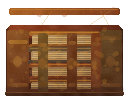
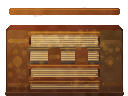
N7A1 · Die letzte Fassung der Lesebank — und die md5-Gegenprobe, die sie gefunden hat
Codex hat das Bank-Blatt 90 Sekunden NACH meiner Montage noch einmal ersetzt. Die
montierte Kopie war damit die ältere: Lieferung `f7f956c1…` gegen Montage `a0780126…`.
Gefunden hat es nicht ein Tor, sondern die Gewohnheit, Lieferung und Ablage vor jedem
Abschluss per md5 zu vergleichen — beide Blätter sind 128×96, beide bestehen das
Aufstands-Tor, und kein Maß hätte den Unterschied gezeigt.

Die neuere Fassung ist die bessere und ist jetzt montiert: gleiche Deckung (77,2 %
bei Spielgröße), gleiches `deck` (8/96), aber **Wert-SD 20,4 statt 17,0** — also mehr
Innenkontrast bei genau der Größe, um die es in Runde 3 ging. Die Zahl 17,0 in der
vorigen Commit-Nachricht beschreibt die verworfene Fassung.

Die Selbstauskunft der Möbel-Welle kommt mit; ihre sechs md5 stimmen mit den
gelieferten Blättern überein (selbst nachgerechnet).

diff --git a/docs/n6-auftrag/lieferung/SELBSTAUSKUNFT_N7_MOEBEL.md b/docs/n6-auftrag/lieferung/SELBSTAUSKUNFT_N7_MOEBEL.md
@@ -2,36 +2,37 @@ Stand: 2026-09-02 - N7A1 - Moebel - Runde 1
 
 # CODEX DRAFT — NOT CANON
 
-Status: DOCUMENT (`docs/n6-auftrag/lieferung/`). Runde 2: sechs vollständige Neuwürfe mit Malerei-Nachbesserung. Die Stand-Zeile bleibt absichtlich die der Order.
+Status: DOCUMENT (`docs/n6-auftrag/lieferung/`). Runde 3: zwei vollständige Neuwürfe; vier angenommene Blätter wurden nicht angefasst. Die Stand-Zeile bleibt absichtlich die der Order.
 
 ## Prüfumfang
 
-- Alle sechs Blattmaße wurden auf die neuen Vorgaben geändert; die Breiten bleiben 64 px je Zelle.
-- Alle sechs PNGs sind 8-Bit-RGBA-Dateien mit Alpha-Silhouette.
+- Die beiden Zielblätter wurden als geschlossene, gefüllte Buchmassen neu geworfen; die vier angenommenen PNGs blieben unverändert.
+- Die beiden Zielblätter bleiben 8-Bit-RGBA-Dateien mit Alpha-Silhouette und den bestehenden Blattbreiten.
 - Die drei abgenommenen p2-Möbel wurden erneut als Machart-Referenz geöffnet.
 - Normalgröße und verkleinerte Gesamtansicht wurden visuell geprüft.
-- Die neuen Bilder enthalten modellierte Wertverläufe, farbige Materialkörnung, Seitenlagen, Bänder/Falze und farbige Kontaktschatten; es wurden keine schwarzen Umrisslinien gezeichnet.
+- Die beiden neuen Bilder enthalten modellierte Wertverläufe, farbige Materialkörnung, Seitenlagen, Bänder/Falze und farbige Kontaktschatten; es wurden keine schwarzen Umrisslinien gezeichnet.
 - `check-ground-plane --selftest` war grün: ein sauberes Blatt und drei absichtlich veränderte Fehlerfälle wurden korrekt erkannt.
-- Der Einzelblatt-Check meldet für alle sechs neuen Lieferbilder: Reichweite 100 %, Kippung 0,0°.
+- Der Einzelblatt-Check meldet für beide neuen Lieferbilder: Reichweite 100 %, Kippung 0,0°.
+- Spielgrößen-Simulation: Der Bench wurde auf 32 × 24 px, das Regal auf 48 × 24 px verkleinert und anschließend mit `0xa3a3a3` multipliziert. Bench: 86,1 % Deckung, Wert-SD 19,7. Regal: 87,3 % Deckung, Wert-SD 20,2.
 - Die Dateidichte wurde als grober technischer Indikator mitgeprüft; sie ersetzt keine menschliche Malerei-Abnahme.
 
 ## 1. `terrain_reading_bench_p1.png`
 
-- MD5: `848828e9f05fb4ed00ee6c9b76ca2df1`
-- Blattmaß: 128 × 96 px; RGBA; 10 621 Byte; Alpha-Bounding-Box `(3, 8)–(125, 95)`.
-- Texturdichte: 3 171 unterschiedliche opake RGB-Werte; häufigster Wert 0,2 % der opaken Pixel.
+- MD5: `f7f956c10d9cddc5b9e006c27ce67e8e`
+- Blattmaß: 128 × 96 px; RGBA; 16 237 Byte; Alpha-Bounding-Box `(4, 6)–(124, 95)`.
+- Spielgröße 32 × 24 px plus Multiply `0xa3a3a3`: 86,1 % Deckung der verkleinerten Bounding-Box; Wert-SD 19,7.
 - Unterkante: Reichweite 100 %, Kippung 0,0°.
 
-1. Benennbarkeit / Geologie — Lesebank aus warmem Buchleder, Sitzdeckel, Papierlagen und zwei geraden Buchwangen; als Bank sofort lesbar.
-2. Silhouette — geschlossener gefertiger Umriss mit zwei geraden Wangen; keine schwarze Kontur, der Umriss entsteht aus farbigem Wertkontrast.
+1. Benennbarkeit / Geologie — Lesebank aus warmem Buchleder, Sitzdeckel, Papierlagen und einer vollständig mit Bänden gefüllten Untermasse; als Bank sofort lesbar.
+2. Silhouette — geschlossene Masse unter dem Sitz, ohne durchsichtigen Rahmen; der Umriss entsteht aus farbigem Wertkontrast statt schwarzer Kontur.
 3. Laufkante — breite, ruhige, waagrechte Sitzfläche mit heller oberer Lederkante.
-4. Unterseite / Flanke gemalt — Wangen und Sitzschürze tragen weiche Schatten, Körnung und sichtbare Buch-/Papierstruktur.
-5. Innen-Modulation — diagonales Licht oben links, Abschattung unten rechts, feine Lederflecken und unregelmäßige Ereignisse ohne Wiederholungs-Tile.
-6. Verbindungs-Logik — Sitzplatte, Schürze und Wangen sind über Auflager- und Falzschatten verbunden; die Wangen wirken tragend.
-7. Material = Spielrolle — das feste Sitzbrett und die kompakten Buchwangen erklären die begehbare Bankfunktion.
+4. Unterseite / Flanke gemalt — die Unterseite ist mit gestapelten Bänden, geschlossener Wange, Seitenlagen und weichen Kontakt-/Fugenschatten gefüllt.
+5. Innen-Modulation — diagonales Licht oben links, Abschattung unten rechts, Lederflecken, Papierkörnung und unregelmäßige Ereignisse ohne Wiederholungs-Tile.
+6. Verbindungs-Logik — Sitzplatte, Schürze, Seitenwangen und das mittlere Fach liegen sichtbar aufeinander; dunkle Auflager erklären die Tragwirkung.
+7. Material = Spielrolle — feste Sitzplatte und kompakte Bücherfüllung machen die Bank auch in der kleinen Spielansicht als tragendes Möbel lesbar.
 8. Tiefen-Palette — warme Leder-, Ziegel-, Ocker-, Olive- und Papierwerte; die tragenden Kanten sind die kontraststärksten Flächen.
 9. Raum schließt materialgerecht — transparenter Alpha-Rand ohne künstliche Bodenfläche; der farbige Kontaktschatten bleibt oberhalb der geraden Basis.
-10. Detail an Flanke und Unterseite — Rückenbänder, Lederkörnung, Seitenlinien und Schürzenschatten sitzen an den Vertikalen; Oberseite bleibt funktional.
+10. Detail an Flanke und Unterseite — Rückenbänder, Lederkörnung, Seitenlinien und Fachschatten sitzen in der gefüllten Masse; die Oberseite bleibt funktional.
 11. Gefahren-Deckung — keine Gefahrform und kein Dekor, das zusätzliche Begehbarkeit vortäuscht.
 12. Raum-Kohärenz — warmes p1-Material, dieselbe frontal-orthografische Körpergrammatik und dieselbe Bodenebene wie im Möbel-Set.
 13. Eine orthografische Bodenebene — erfüllt: gerade waagrechte Aufstandskante, 100 % Reichweite, 0,0° Kippung.
@@ -59,21 +60,21 @@ Status: DOCUMENT (`docs/n6-auftrag/lieferung/`). Runde 2: sechs vollständige Ne
 
 ## 3. `terrain_book_shelf_p1.png`
 
-- MD5: `f2f126d40ce87c47af65e49d03544233`
-- Blattmaß: 192 × 96 px; RGBA; 19 550 Byte; Alpha-Bounding-Box `(6, 6)–(185, 95)`.
-- Texturdichte: 5 098 unterschiedliche opake RGB-Werte; häufigster Wert 0,3 % der opaken Pixel.
+- MD5: `06e2b2519971f33a6ad8d6244caff910`
+- Blattmaß: 192 × 96 px; RGBA; 23 719 Byte; Alpha-Bounding-Box `(6, 6)–(185, 95)`.
+- Spielgröße 48 × 24 px plus Multiply `0xa3a3a3`: 87,3 % Deckung der verkleinerten Bounding-Box; Wert-SD 20,2.
 - Unterkante: Reichweite 100 %, Kippung 0,0°.
 
-1. Benennbarkeit / Geologie — niedriges Regalbrett aus einem Bücherstapel im Verband, mit langem tragendem oberen Brett.
-2. Silhouette — offener, niedriger Regalumriss; der gerade obere Abschluss ist ein gemaltes Brett, keine nackte Kontur.
+1. Benennbarkeit / Geologie — niedriges Regalbrett aus einer durchgehend gefüllten, unregelmäßigen Büchermaurerung mit langem tragendem oberen Brett.
+2. Silhouette — geschlossene niedrige Masse ohne durchsichtige Fächer; der gerade obere Abschluss ist ein gemaltes Brett, keine nackte Kontur.
 3. Laufkante — lange, helle und waagrechte Oberkante; Materialwechsel liegen innerhalb der Buchkörper.
-4. Unterseite / Flanke gemalt — mehrere Reihen aus Leder, Papierkanten, Rücken und farbigen Fugen modellieren die Tiefe.
-5. Innen-Modulation — weiche diagonale Lichtverläufe plus lokale Kratzer, Flecken und Seitenvariationen; keine erkennbare Wiederholungsperiode.
-6. Verbindungs-Logik — das obere Brett liegt auf dem Bücherverband; die vertikalen Buchkörper und Fugen zeigen den Verband.
-7. Material = Spielrolle — der breite Bücherverband trägt das Brett und liest sich als festes niedriges Terrain.
+4. Unterseite / Flanke gemalt — mehrere vollständig gefüllte Reihen aus stehenden und liegenden Bänden, Papierkanten, Rücken und farbigen Fugen modellieren die Tiefe.
+5. Innen-Modulation — weiche diagonale Lichtverläufe plus lokale Kratzer, Flecken und Seitenvariationen; keine leeren Zwischenbretter und keine erkennbare Wiederholungsperiode.
+6. Verbindungs-Logik — das obere Brett liegt auf der dicht verzahnten Büchermaurerung; stehende und liegende Bücher fassen sich gegenseitig.
+7. Material = Spielrolle — die breite, geschlossene Büchermaurerung trägt das Brett und bleibt auch in der 48 × 24 px-Ansicht als Regalmasse lesbar.
 8. Tiefen-Palette — warme Ocker-, Rot-, Olive-, Blau- und Braunwerte; farbige Schatten statt schwarzer Konturen.
-9. Raum schließt materialgerecht — Alpha-Rand ohne künstliche Plattform; der farbige Kontaktschatten bleibt vor der geraden Basis.
-10. Detail an Flanke und Unterseite — Buchrücken, Seitenlagen, Falze und Auflagerfugen liegen an der Front; Oberseite bleibt ruhig.
+9. Raum schließt materialgerecht — Alpha-Rand ohne künstliche Plattform; die gefüllte Masse und der farbige Kontaktschatten schließen den Raum vor der geraden Basis.
+10. Detail an Flanke und Unterseite — Buchrücken, Seitenlagen, Falze und Auflagerfugen liegen in der dichten Front; die Oberseite bleibt ruhig.
 11. Gefahren-Deckung — keine Gefahrform und kein irreführendes Zusatzdekor.
 12. Raum-Kohärenz — p1-Wärme und gemeinsame Buch-/Papiergrammatik; die Anordnung bleibt eigenständig gegenüber der Alt-Schwester.
 13. Eine orthografische Bodenebene — erfüllt: gerade waagrechte Aufstandskante, 100 % Reichweite, 0,0° Kippung.
